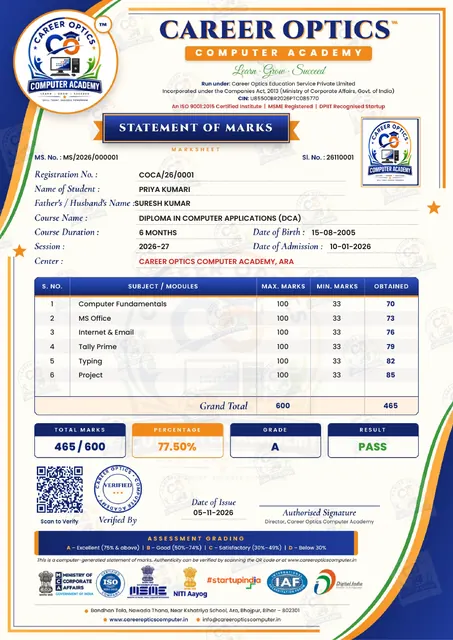
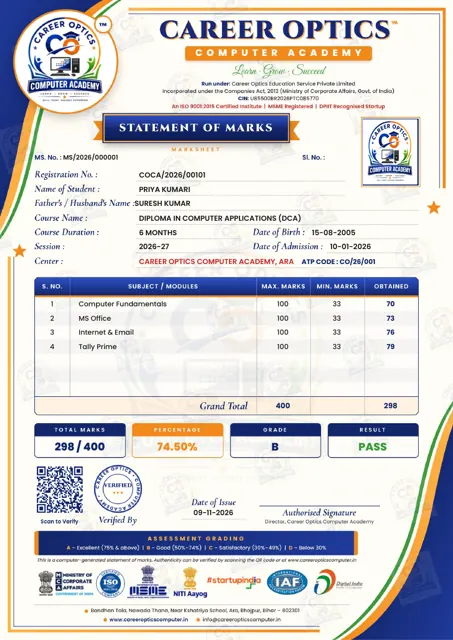
Number registrations, certificates and serials in the academy's format
Registration numbers were never issued; only application numbers were.
document-numbering.sql (applied live) adds the academy's three series,
counted in the database so two centres saving at once never collide:

  Registration  COCA/<year>/00101, one continuous series, given when a
                student is approved (approved students without one were
                numbered oldest first)
  Certificate   COCA/CERT/<year>/00201, a new number per certificate
  Serial        <YY><MM><0001>, e.g. 26110001, restarting each month

issue_certificate takes the new numbers before it charges the centre,
and a trigger numbers any other insert. The typing certificate takes
its numbers from the same series when left blank. Verification now
finds a certificate by its certificate or serial number, which is what
the certificate's QR carries; it used to accept only the enrolment no.

"Centre Code" becomes "ATP Code" everywhere it prints, and the course
certificate and marksheet now carry the ATP code beside the centre.
The licence's box label is overprinted from BRANCH CODE to ATP CODE.

diff --git a/organization/src/lib/brand/brandDocuments.ts b/organization/src/lib/brand/brandDocuments.ts
@@ -178,7 +178,7 @@ export async function drawBrandMarksheet(doc: jsPDF, s: StudentDocument, extra: 
 
   const name = fullName(s) || "-";
   const regd = s.enrollmentNo || s.applicationNo || "";
-  const serial = extra.serial_no || s.rollNo || "";
+  const serial = extra.serial_no || s.certificateSerial || s.rollNo || "";
   const summary = marksheetSummary(s.examResults);
   const rows = rowsWithMinimum(s.examResults);
   const percentage = summary.max ? (summary.total / summary.max) * 100 : 0;
@@ -202,7 +202,14 @@ export async function drawBrandMarksheet(doc: jsPDF, s: StudentDocument, extra: 
   V(ddmmyyyy(s.dateOfBirth), 410.2, 309.7, 130);
   V(extra.session || s.session || "", 182.8, 328.4, 120);
   V(ddmmyyyy(s.admissionDate), 434.0, 328.4, 110);
-  V(`${s.branch.name || s.branch.organization.name}`.toUpperCase(), 182.8, 347.9, 360, RED);
+  const centreName = `${s.branch.name || s.branch.organization.name}`.toUpperCase();
+  if (s.branch.code) {
+    V(centreName, 182.8, 347.9, 245, RED);
+    const used = Math.min(measure(doc, centreName, "Poppins-SemiBold", 9.6), 245);
+    put(doc, `ATP CODE : ${s.branch.code}`, { x: 182.8 + used + 10, y: 347.9, size: 8.8, font: "Poppins-Bold", color: NAVY, maxWidth: 543 - (182.8 + used + 10) });
+  } else {
+    V(centreName, 182.8, 347.9, 360, RED);
+  }
 
   // The marks table
   const [c0, c1, c2, c3, c4, c5] = MS_TABLE.cols;
@@ -512,9 +519,10 @@ export async function drawBrandCertificate(doc: jsPDF, s: StudentDocument, extra
   const V = (text: string, x: number, y: number, maxWidth: number, size = 12.5, color = DARK) =>
     put(doc, text, { x: cx(x), y: cy(y), size, font: "Poppins-SemiBold", color, maxWidth: cx(maxWidth) });
 
-  V(extra.certificate_no || "", 0.2023, 0.3095, 0.125, 12);
+  const certificateNo = extra.certificate_no || s.certificateNo || "";
+  V(certificateNo, 0.2023, 0.3095, 0.152, 12);
   V(regd, 0.2023, 0.3447, 0.125, 12);
-  V(extra.serial_no || s.rollNo || "", 0.2023, 0.3795, 0.125, 12);
+  V(extra.serial_no || s.certificateSerial || s.rollNo || "", 0.2023, 0.3795, 0.125, 12);
 
   picture(doc, s.photo, cx(0.832), cy(0.288), cx(0.916 - 0.832), cy(0.434 - 0.288));
 
@@ -524,11 +532,19 @@ export async function drawBrandCertificate(doc: jsPDF, s: StudentDocument, extra
   V((s.course?.duration || "").toUpperCase(), 0.238, 0.6305, 0.12, 12.5);
   V(grade, 0.5153, 0.6305, 0.1, 12.5);
   V(ddmmyyyy(s.dateOfBirth), 0.73, 0.6305, 0.18, 12.5);
-  V((s.branch.name || s.branch.organization.name).toUpperCase(), 0.1596, 0.6875, 0.75, 13, RED);
+  // The centre, then its ATP (Authorised Training Partner) code on the same line
+  const centre = (s.branch.name || s.branch.organization.name).toUpperCase();
+  if (s.branch.code) {
+    V(centre, 0.1596, 0.6875, 0.5, 13, RED);
+    const used = Math.min(measure(doc, centre, "Poppins-SemiBold", 13), cx(0.5));
+    put(doc, `ATP CODE : ${s.branch.code}`, { x: cx(0.1596) + used + 14, y: cy(0.6875), size: 11.5, font: "Poppins-Bold", color: DARK, maxWidth: cx(0.9) - (cx(0.1596) + used + 14) });
+  } else {
+    V(centre, 0.1596, 0.6875, 0.75, 13, RED);
+  }
   V(ddmmyyyy(s.admissionDate), 0.2503, 0.7345, 0.1, 12.5);
   V(ddmmyyyy(s.issueDate), 0.7794, 0.7345, 0.13, 12.5);
 
-  const code = await qr(verifyUrl(extra.certificate_no || regd || name, "certificate"));
+  const code = await qr(verifyUrl(certificateNo || regd || name, "certificate"));
   picture(doc, code, cx(0.088), cy(0.788), cx(0.078), cx(0.078));
 }
 
@@ -574,6 +590,10 @@ export async function drawFranchiseLicence(doc: jsPDF, l: FranchiseLicence) {
   put(doc, l.centreName.toUpperCase(), { x: lx(0.5), y: ly(0.4306), size: 19, font: "Poppins-ExtraBold", color: RED, align: "center", maxWidth: lx(0.82) });
   put(doc, l.address.toUpperCase(), { x: lx(0.5), y: ly(0.4564), size: 10, font: "Poppins-SemiBold", color: NAVY, align: "center", maxWidth: lx(0.8), charSpace: 0.4 });
   put(doc, l.directorName.toUpperCase(), { x: lx(0.5), y: ly(0.6009), size: 17, font: "Poppins-ExtraBold", color: RED, align: "center", maxWidth: lx(0.6) });
+  // The artwork's first box is labelled BRANCH CODE; the academy calls it the ATP code.
+  doc.setFillColor(255, 255, 255);
+  doc.rect(pt(lx(0.118)), pt(ly(0.6335)), pt(lx(0.236)), pt(ly(0.0155)), "F");
+  put(doc, "ATP CODE", { x: lx(0.236), y: ly(0.6455), size: 8, font: "Poppins-SemiBold", color: ORANGE, align: "center", charSpace: 2.6 });
   const box = (text: string, centre: number) => put(doc, text, { x: lx(centre), y: ly(0.6689), size: 16, font: "Poppins-ExtraBold", color: NAVY, align: "center", maxWidth: lx(0.2) });
   box(l.branchCode, 0.236);
   box(l.contact, 0.5);
@@ -776,7 +796,7 @@ export async function drawTypingCertificate(doc: jsPDF, t: TypingCertificate) {
   // The centre, highlighted: name in red, code beside it
   put(doc, "STUDY CENTRE", { x: lx(0.5), y: ly(0.552), size: 7.5, font: "Poppins-SemiBold", color: ORANGE, align: "center", charSpace: 1.6 });
   put(doc, t.centre.toUpperCase(), { x: lx(0.5), y: ly(0.571), size: 13, font: "Poppins-ExtraBold", color: RED, align: "center", maxWidth: lx(0.8) });
-  if (t.centreCode) put(doc, `CENTRE CODE : ${t.centreCode}`, { x: lx(0.5), y: ly(0.587), size: 9, font: "Poppins-Bold", color: NAVY, align: "center", charSpace: 0.6 });
+  if (t.centreCode) put(doc, `ATP CODE : ${t.centreCode}`, { x: lx(0.5), y: ly(0.587), size: 9, font: "Poppins-Bold", color: NAVY, align: "center", charSpace: 0.6 });
 
   put(doc, "TYPING PERFORMANCE", { x: lx(0.5), y: ly(0.618), size: 13, font: "Poppins-ExtraBold", color: NAVY, align: "center", charSpace: 3 });
 
@@ -895,7 +915,7 @@ export async function drawEnrollmentSlip(doc: jsPDF, e: EnrollmentSlip) {
   const cw = W / 3;
   doc.setFillColor(232, 236, 246);
   doc.rect(pt(left), pt(y), pt(W), pt(11), "F");
-  ["Enrollment No.", "Institute / Centre Code", "Date of Admission"].forEach((h, k) => put(doc, h, { x: left + cw * k + cw / 2, y: y + 8.2, size: 7, font: "Poppins-Bold", color: NAVY, align: "center" }));
+  ["Registration No.", "ATP Code", "Date of Admission"].forEach((h, k) => put(doc, h, { x: left + cw * k + cw / 2, y: y + 8.2, size: 7, font: "Poppins-Bold", color: NAVY, align: "center" }));
   [e.enrollmentNo, e.centreCode || "—", ddmmyyyy(e.admissionDate).replace(/-/g, "/")].forEach((v, k) => put(doc, v, { x: left + cw * k + cw / 2, y: y + 20.5, size: 8.8, font: "Poppins-Bold", color: "#1a1a1a", align: "center", maxWidth: cw - 8 }));
   doc.rect(pt(left), pt(y), pt(W), pt(24));
   line(left + cw, y, left + cw, y + 24);
@@ -1039,7 +1059,7 @@ export async function drawAdmissionForm(doc: jsPDF, c: AdmissionFormCentre) {
   line(left, 108, right, 108);
   put(doc, c.centreName.toUpperCase(), { x: cx, y: 123, size: 14, font: "Poppins-ExtraBold", color: RED, align: "center", maxWidth: W });
   put(doc, [c.address, c.phone ? `Ph: ${c.phone}` : ""].filter(Boolean).join("   ·   "), { x: cx, y: 135, size: 8.5, font: "Poppins-Medium", color: NAVY, align: "center", maxWidth: W });
-  put(doc, `AUTHORISED STUDY CENTRE OF CAREER OPTICS COMPUTER ACADEMY${c.centreCode ? `   ·   CENTRE CODE : ${c.centreCode}` : ""}`, { x: cx, y: 146, size: 7.5, font: "Poppins-Bold", color: ORANGE, align: "center", charSpace: 0.8, maxWidth: W });
+  put(doc, `AUTHORISED STUDY CENTRE OF CAREER OPTICS COMPUTER ACADEMY${c.centreCode ? `   ·   ATP CODE : ${c.centreCode}` : ""}`, { x: cx, y: 146, size: 7.5, font: "Poppins-Bold", color: ORANGE, align: "center", charSpace: 0.8, maxWidth: W });
 
   // Title and photograph
   doc.setFillColor(...rgb(NAVY));
@@ -1065,7 +1085,7 @@ export async function drawAdmissionForm(doc: jsPDF, c: AdmissionFormCentre) {
   let y = 184;
   ul("Course Name :", left, y, formW);
   y += 19;
-  ul("Centre Code :", left, y, formW / 2 - 6, c.centreCode || "");
+  ul("ATP Code :", left, y, formW / 2 - 6, c.centreCode || "");
   ul("Reg. No. :", left + formW / 2 + 6, y, formW / 2 - 6);
   y += 19;
   ul("Date of Admission :", left, y, formW / 2 - 6);
@@ -1186,7 +1206,7 @@ export async function drawAdmissionForm(doc: jsPDF, c: AdmissionFormCentre) {
   ul("Reg. No. :", left + half + 16, y, half);
   y += 19;
   ul("Centre Name :", left, y, half, c.centreName);
-  ul("Centre Code :", left + half + 16, y, half, c.centreCode || "");
+  ul("ATP Code :", left + half + 16, y, half, c.centreCode || "");
   y += 19;
   ul("Course :", left, y, half);
   ul("Duration :", left + half + 16, y, half);

diff --git a/organization/src/pages/exam/TypingCertificate.tsx b/organization/src/pages/exam/TypingCertificate.tsx
@@ -13,6 +13,7 @@ import { useToast } from "@/hooks/use-toast";
 import { typingCertificatesPdf } from "@/lib/brand/brandDocuments";
 import { franchiseLicenceOf, type BranchDetails } from "@/lib/branchTemplateDocument";
 import { getBranchDetails, getBranches, getCourses, getStudents } from "@/lib/supabase/data";
+import { supabase } from "@/lib/supabase/client";
 import { photoOf, type StudentRecord } from "@/lib/studentRecord";
 
 /**
@@ -36,7 +37,8 @@ export default function TypingCertificate() {
   const [studentId, setStudentId] = useState("");
 
   const today = new Date().toISOString().slice(0, 10);
-  const [certificateNo, setCertificateNo] = useState(`COCA/TYP/${new Date().getFullYear()}/`);
+  // Blank means "take the next number": COCA/CERT/<year>/<n> and the YYMM serial, from the same series as every certificate.
+  const [certificateNo, setCertificateNo] = useState("");
   const [serialNo, setSerialNo] = useState("");
   const [issueDate, setIssueDate] = useState(today);
   const [course, setCourse] = useState("TSA (Typing Speed & Accuracy)");
@@ -92,15 +94,26 @@ export default function TypingCertificate() {
 
   const print = async () => {
     if (!student) return toast({ title: "Choose a student", variant: "destructive" });
-    if (!certificateNo.trim() || /\/$/.test(certificateNo.trim())) return toast({ title: "Enter the certificate number", description: "Finish the number, e.g. COCA/TYP/2026/0001.", variant: "destructive" });
     if (!englishWpm.trim() && !hindiWpm.trim()) return toast({ title: "Enter the typing speed", description: "At least one of English or Hindi words per minute.", variant: "destructive" });
     setBusy(true);
     try {
+      let certNo = certificateNo.trim();
+      let serial = serialNo.trim();
+      if (!certNo || !serial) {
+        const { data, error } = await supabase.rpc("allocate_certificate_numbers");
+        if (error) throw new Error(`Could not take the next certificate number: ${error.message}`);
+        const next = (data || {}) as { certificateNo?: string; serialNo?: string };
+        certNo = certNo || String(next.certificateNo || "");
+        serial = serial || String(next.serialNo || "");
+        // Shown on the form, so a reprint uses the same numbers rather than taking new ones.
+        setCertificateNo(certNo);
+        setSerialNo(serial);
+      }
       await typingCertificatesPdf(
         [
           {
-            certificateNo: certificateNo.trim(),
-            serialNo: serialNo.trim(),
+            certificateNo: certNo,
+            serialNo: serial,
             name,
             fatherName: String(student.fatherName ?? ""),
             registrationNo: String(student.enrollmentNo || student.applicationNo || ""),
@@ -167,7 +180,7 @@ export default function TypingCertificate() {
                 <dt className="text-muted-foreground">Registration No.</dt><dd className="font-medium">{student.enrollmentNo || student.applicationNo || "—"}</dd>
                 <dt className="text-muted-foreground">Father's name</dt><dd className="font-medium">{student.fatherName || "—"}</dd>
                 <dt className="text-muted-foreground">Study centre</dt><dd className="font-medium">{licence?.centreName || branch?.name || "—"}</dd>
-                <dt className="text-muted-foreground">Centre code</dt><dd className="font-medium">{licence?.branchCode || "—"}</dd>
+                <dt className="text-muted-foreground">ATP code</dt><dd className="font-medium">{licence?.branchCode || "—"}</dd>
                 <dt className="text-muted-foreground">Photo</dt><dd className="font-medium">{photoOf(student) ? "On record" : "Not on record"}</dd>
               </dl>
             )}
@@ -182,11 +195,11 @@ export default function TypingCertificate() {
             <div className="grid gap-4 sm:grid-cols-2">
               <div className="space-y-2">
                 <Label htmlFor="certificateNo">Certificate No.</Label>
-                <Input id="certificateNo" value={certificateNo} onChange={(e) => setCertificateNo(e.target.value)} />
+                <Input id="certificateNo" value={certificateNo} onChange={(e) => setCertificateNo(e.target.value)} placeholder="Auto — next COCA/CERT number" />
               </div>
               <div className="space-y-2">
                 <Label htmlFor="serialNo">Sl. No.</Label>
-                <Input id="serialNo" value={serialNo} onChange={(e) => setSerialNo(e.target.value)} placeholder="0001" />
+                <Input id="serialNo" value={serialNo} onChange={(e) => setSerialNo(e.target.value)} placeholder="Auto — e.g. 26110001" />
               </div>
             </div>
             <div className="grid gap-4 sm:grid-cols-2">

diff --git a/organization/src/lib/supabase/data.ts b/organization/src/lib/supabase/data.ts
@@ -1954,12 +1954,21 @@ export async function getStudentDocument(studentId: string, branchId: string | n
     marks: (Array.isArray(row.marks) ? row.marks : []) as MarkLine[],
   }));
 
+  // The certificate's numbers, once issued; a database before document-numbering.sql has no serialNo.
+  const { data: issue } = await supabase
+    .from("certificate_issues")
+    .select("*")
+    .eq("studentId", studentId)
+    .maybeSingle();
+
   return {
     success: true,
     data: {
       firstName: [student.firstName, student.middleName].filter(Boolean).join(" "),
       lastName: student.lastName || "",
       branchId: student.branchId,
+      certificateNo: (issue?.certificateNo as string | null) || undefined,
+      certificateSerial: (issue?.serialNo as string | null) || undefined,
       enrollmentNo: student.enrollmentNo || undefined,
       applicationNo: student.applicationNo || undefined,
       admissionDate: student.admissionDate || student.createdAt || "",
@@ -1986,6 +1995,7 @@ export async function getStudentDocument(studentId: string, branchId: string | n
       batch: batch ? { name: batch.name } : undefined,
       branch: {
         name: branch?.name || "",
+        code: branch?.code || undefined,
         phone: branch?.phone || "",
         email: branch?.email || "",
         // `branches` carries no address of its own; the one a branch edits
@@ -2760,7 +2770,7 @@ export async function getStudentProfile(userId: string, branchId: string) {
     // `baseFee` rides along because the portal shows the student what their
     // course costs, which is the only figure they have before an invoice is
     // raised against them.
-    .select("*, course:courses(name, code, baseFee), batch:batches(name), branch:branches(name)")
+    .select("*, course:courses(name, code, baseFee), batch:batches(name), branch:branches(name, code)")
     .or(portalStudentMatch(userId))
     .eq("branchId", branchId)
     .is("deletedAt", null)
@@ -5820,6 +5830,7 @@ export interface CertificateCharge {
   amount: number;
   balance?: number;
   certificateNo?: string;
+  serialNo?: string;
 }
 
 /**
@@ -5861,6 +5872,7 @@ export async function issueCertificate(
     amount: Number(row.amount) || 0,
     balance: row.balance == null ? undefined : Number(row.balance),
     certificateNo: row.certificateNo ? String(row.certificateNo) : undefined,
+    serialNo: row.serialNo ? String(row.serialNo) : undefined,
   };
 }
 

diff --git a/organization/src/pages/student/EnrollmentSlip.tsx b/organization/src/pages/student/EnrollmentSlip.tsx
@@ -153,11 +153,11 @@ export default function EnrollmentSlip() {
             </div>
             {student && (
               <dl className="grid grid-cols-2 gap-x-4 gap-y-1 rounded-lg border bg-muted/40 p-3 text-sm">
-                <dt className="text-muted-foreground">Enrollment No.</dt><dd className="font-medium">{student.enrollmentNo || student.applicationNo || "—"}</dd>
+                <dt className="text-muted-foreground">Registration No.</dt><dd className="font-medium">{student.enrollmentNo || student.applicationNo || "—"}</dd>
                 <dt className="text-muted-foreground">Course</dt><dd className="font-medium">{course?.name || String(student.courseName ?? "—")}</dd>
                 <dt className="text-muted-foreground">Father's name</dt><dd className="font-medium">{student.fatherName || "—"}</dd>
                 <dt className="text-muted-foreground">Mother's name</dt><dd className="font-medium">{String(student.motherName ?? "") || "—"}</dd>
-                <dt className="text-muted-foreground">Centre</dt><dd className="font-medium">{licence?.centreName || branch?.name || "—"} · {licence?.branchCode || "—"}</dd>
+                <dt className="text-muted-foreground">Centre · ATP code</dt><dd className="font-medium">{licence?.centreName || branch?.name || "—"} · {licence?.branchCode || "—"}</dd>
                 <dt className="text-muted-foreground">Photo</dt><dd className="font-medium">{photoOf(student) ? "On record" : "Not on record"}</dd>
               </dl>
             )}

diff --git a/organization/website/behaviour/verification.js b/organization/website/behaviour/verification.js
@@ -63,7 +63,7 @@
         s = s || {};
         var rows = [
             ['Name', s.name], ["Father's name", s.fatherName], ['Enrollment No', s.enrollmentNo],
-            ['Course', s.course], ['Institute', s.centre]
+            ['Course', s.course], ['Institute', s.centre], ['ATP Code', s.centreCode]
         ];
         return '<table class="v-table">' + rows.filter(function(r){ return r[1]; }).map(function(r){
             return '<tr><th>' + esc(r[0]) + '</th><td>' + esc(r[1]) + '</td></tr>';
@@ -102,7 +102,7 @@
             if(!data || !data.found) return notFound();
             if(!data.issued) return studentBlock(data.student) + notFound('No certificate has been issued to this enrollment number yet.');
             var rows = [
-                ['Certificate No', data.certificateNo], ['Issue date', day(data.issueDate)],
+                ['Certificate No', data.certificateNo], ['Serial No', data.serialNo], ['Issue date', day(data.issueDate)],
                 ['Examination held', data.examConductedDate ? day(data.examConductedDate) : ''],
                 ['Result', data.percentage != null ? data.percentage + '% · Grade ' + (data.grade || '') : '']
             ];

diff --git a/organization/src/lib/student-profile.ts b/organization/src/lib/student-profile.ts
@@ -50,7 +50,7 @@ export interface StudentRow {
   fatherPhone?: string | null;
   course?: { name?: string | null; code?: string | null; baseFee?: number | string | null } | null;
   batch?: { name?: string | null } | null;
-  branch?: { name?: string | null } | null;
+  branch?: { name?: string | null; code?: string | null } | null;
 }
 
 const text = (value: unknown) => (value == null ? "" : String(value));
@@ -113,6 +113,7 @@ export function toStudentProfile(row: StudentRow): StudentProfile {
     batch: text(row.batch?.name),
     section: text(row.section),
     branch: text(row.branch?.name),
+    branchCode: text(row.branch?.code),
     email: text(row.email),
     phone,
     // A student who left the WhatsApp box blank still uses WhatsApp on the

diff --git a/organization/src/pages/portal/MyResults.tsx b/organization/src/pages/portal/MyResults.tsx
@@ -153,8 +153,8 @@ export default function MyResults() {
       // The first certificate a student receives is paid for by their centre's
       // wallet, whoever generates it; a wallet that cannot cover it holds the
       // download until the centre recharges.
-      await issueCertificate(profile?.id ?? "", user?.name);
-      await certificatePdf(doc);
+      const issued = await issueCertificate(profile?.id ?? "", user?.name);
+      await certificatePdf(doc, { certificate_no: issued.certificateNo || "", serial_no: issued.serialNo || "" });
       toast({ title: "Certificate downloaded" });
     } catch (err) {
       const message = err instanceof Error ? err.message : "";

diff --git a/organization/src/data/student-portal.ts b/organization/src/data/student-portal.ts
@@ -23,6 +23,8 @@ export interface StudentProfile {
   batch: string;
   section: string;
   branch: string;
+  /** The centre's code, printed as the ATP code on certificates. */
+  branchCode?: string;
   email: string;
   phone: string;
   /** The student's own WhatsApp number — `students.whatsappNumber`. */
@@ -181,6 +183,7 @@ export const asStudentDocument = (
     batch: { name: profile.batch },
     branch: {
       name: profile.branch,
+      code: profile.branchCode || undefined,
       phone: "+91 20 4004 1100",
       email: "kothrud@careeroptics.in",
       organization: { name: "Career Optics Computer Academy" },

diff --git a/organization/src/lib/documents.ts b/organization/src/lib/documents.ts
@@ -25,8 +25,13 @@ export type StudentDocument = {
   course?: { name: string; code?: string; duration?: string };
   session?: string;
   batch?: { name: string };
+  /** The issued certificate's own numbers (certificate_issues), when it has been issued. */
+  certificateNo?: string;
+  certificateSerial?: string;
   branch: {
     name: string;
+    /** The centre's code, printed as the ATP (Authorised Training Partner) code. */
+    code?: string;
     phone: string;
     email: string;
     address?: string;

diff --git a/organization/src/test/student-portal-fetch.test.ts b/organization/src/test/student-portal-fetch.test.ts
@@ -93,7 +93,7 @@ describe("getStudentProfile", () => {
 
     expect(selects[0]).toContain("course:courses(");
     expect(selects[0]).toContain("batch:batches(name)");
-    expect(selects[0]).toContain("branch:branches(name)");
+    expect(selects[0]).toContain("branch:branches(name, code)");
   });
 
   // The portal shows the student what their course costs before any invoice is
